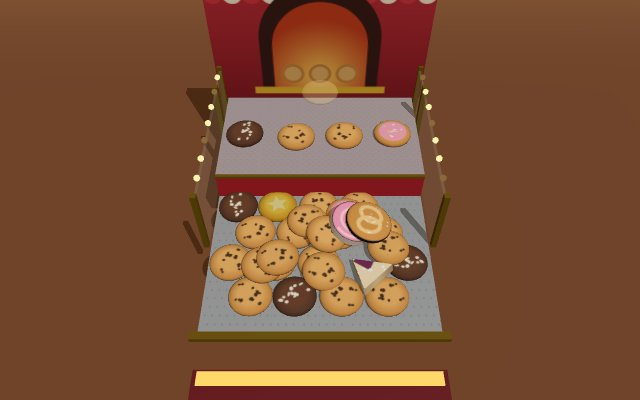
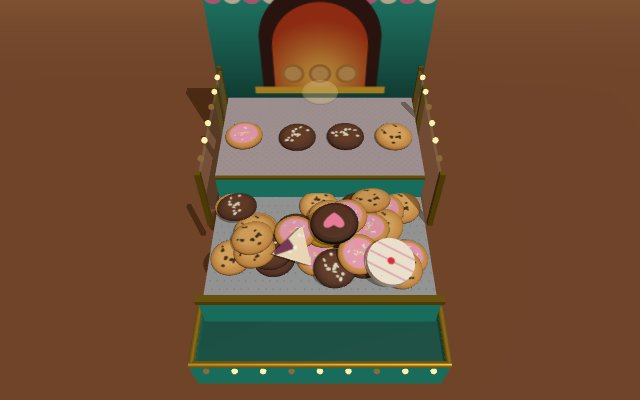
Koekjesschuiver 3D: halloween, mint bakkerij, nieuwe opvangbak, koekjes vallen makkelijker, terugknop sluit winkel; Fladderfeest: dieren roepen tijdens het spel
Claude-Session: https://claude.ai/code/session_016yiCbYbiJxj3wDkRW1beUn

Changed region(s): [[0.2812, 0.42, 0.7188, 1.0], [0.3125, 0.0, 0.6875, 0.27], [0.3125, 0.3, 0.6875, 0.39]]

diff --git a/koekjesschuiver3d/js/spel.js b/koekjesschuiver3d/js/spel.js
@@ -7,8 +7,9 @@ import * as CANNON from 'cannon';
 
 const $ = (id) => document.getElementById(id);
 // smal en lang (zoals een echte kast): de zijkanten zijn vanaf ZIJ_EIND open, daar vallen koekjes weg
-const HB = 2.4, VOOR = 4, ZIJ_EIND = 1.9, KR = 0.45, KH = 0.13;
+const HB = 2.4, VOOR = 3.2, ZIJ_EIND = 1.3, KR = 0.45, KH = 0.13;
 const MUUR_VOOR = -2.3; // voorkant van de vaste achterwand boven de schuif
+const BAK = { y: -1.1, diep: 1.3 }; // opvangbak voor de gewonnen koekjes
 const SCHUIF = { midden: -2.75, slag: 1.2, w: 1.6, half: 2, hoog: 0.7 }; // schuif heen en weer
 const VAL_Z = -1.85, VAL_Y = 1.25; // waar een koekje wordt losgelaten
 
@@ -78,7 +79,7 @@ function pasAan() {
   const boven = ($('balk').getBoundingClientRect().bottom || 60) + 4, onder = h - ($('krachten').getBoundingClientRect().top || h - 70) + 4;
   const ymax = 1 - 2 * boven / h, ymin = -1 + 2 * onder / h, hoek = asp < 1 ? 1.12 : 0.9;
   const pt = [];
-  for (const s of [-1, 1]) pt.push([s * (HB + 0.2), -0.5, VOOR + 0.6], [s * (HB + 0.2), 2.2, MUUR_VOOR]);
+  for (const s of [-1, 1]) pt.push([s * (HB + 0.2), BAK.y + 0.2, VOOR + BAK.diep - 0.1], [s * (HB + 0.2), 2.2, MUUR_VOOR]);
   for (let d = 5; d < 45; d += 0.2) {
     let beste = null;
     for (let tz = -3; tz <= 3; tz += 0.1) {
@@ -163,19 +164,31 @@ const sterren = (g, w, h, n, tot = 0.7) => { const r = rnd(5); for (let i = 0; i
 const verloop = (g, w, h, kl) => { const gr = g.createLinearGradient(0, 0, 0, h); kl.forEach((k, i) => gr.addColorStop(i / (kl.length - 1), k)); g.fillStyle = gr; g.fillRect(0, 0, w, h); };
 const bol = (g, x, y, r, kl) => { g.fillStyle = kl; g.beginPath(); g.arc(x, y, r, 0, 7); g.fill(); };
 const THEMAS = [
-  { id: 'bakkerij', n: 'Bakkerij', prijs: 0, kast: '#b8232f', donker: '#6e141b', vloer: '#7a4a2a', mist: '#c9925e',
+  { id: 'bakkerij', n: 'Bakkerij', prijs: 0, kast: '#25a18e', donker: '#16594f', vloer: '#7a4a2a', mist: '#c9925e',
     lucht(g, w, h) { verloop(g, w, h, ['#f6dcb4', '#e2b483', '#c9925e']);
       const t = Math.max(w, h) / 14; g.strokeStyle = 'rgba(255,255,255,.35)'; g.lineWidth = 2;
       for (let y = h * 0.3; y < h; y += t) { g.beginPath(); g.moveTo(0, y); g.lineTo(w, y); g.stroke(); }
       for (let x = 0; x < w; x += t) { g.beginPath(); g.moveTo(x, h * 0.3); g.lineTo(x, h); g.stroke(); }
       for (const x of [0.2, 0.8]) { g.strokeStyle = '#3a2418'; g.beginPath(); g.moveTo(w * x, 0); g.lineTo(w * x, h * 0.12); g.stroke(); bol(g, w * x, h * 0.15, w * 0.11, 'rgba(255,230,150,.25)'); g.fillStyle = '#2e5a4a'; g.beginPath(); g.arc(w * x, h * 0.15, w * 0.06, Math.PI, 0); g.fill(); bol(g, w * x, h * 0.15, w * 0.02, '#fff2b0'); } },
-    bord(g, w, h) { verloop(g, w, h, ['#c8323c', '#8a1a22']);
-      for (let i = 0; i < 12; i++) { g.fillStyle = i % 2 ? '#fff4dc' : '#d83a44'; g.beginPath(); g.moveTo(i * w / 12, 0); g.lineTo((i + 1) * w / 12, 0); g.lineTo((i + 1) * w / 12, h * 0.16); g.arc((i + 0.5) * w / 12, h * 0.16, w / 24, 0, Math.PI); g.fill(); }
+    bord(g, w, h) { verloop(g, w, h, ['#2fb8a2', '#16594f']);
+      for (let i = 0; i < 12; i++) { g.fillStyle = i % 2 ? '#fff4dc' : '#f27aa8'; g.beginPath(); g.moveTo(i * w / 12, 0); g.lineTo((i + 1) * w / 12, 0); g.lineTo((i + 1) * w / 12, h * 0.16); g.arc((i + 0.5) * w / 12, h * 0.16, w / 24, 0, Math.PI); g.fill(); }
       g.fillStyle = '#3a1a14'; g.beginPath(); g.moveTo(w * 0.22, h * 0.9); g.lineTo(w * 0.22, h * 0.5); g.arc(w / 2, h * 0.5, w * 0.28, Math.PI, 0); g.lineTo(w * 0.78, h * 0.9); g.fill();
       const gl = g.createRadialGradient(w / 2, h * 0.8, 10, w / 2, h * 0.8, w * 0.3); gl.addColorStop(0, '#ffcf5a'); gl.addColorStop(1, '#c8401a'); g.fillStyle = gl;
       g.beginPath(); g.moveTo(w * 0.28, h * 0.9); g.lineTo(w * 0.28, h * 0.55); g.arc(w / 2, h * 0.55, w * 0.22, Math.PI, 0); g.lineTo(w * 0.72, h * 0.9); g.fill();
       for (let i = 0; i < 3; i++) { bol(g, w * (0.37 + i * 0.13), h * 0.78, w * 0.055, '#c98a40'); bol(g, w * (0.37 + i * 0.13), h * 0.78, w * 0.04, '#e8b469'); }
       g.fillStyle = '#e8b830'; g.fillRect(w * 0.18, h * 0.9, w * 0.64, h * 0.06); } },
+  { id: 'halloween', n: 'Halloween', prijs: 40, kast: '#e8731a', donker: '#2a1238', vloer: '#1a0f20', mist: '#2a1238', tafel: '#c4b0e8', lamp: '#ffa53a',
+    lucht(g, w, h) { verloop(g, w, h, ['#0e0618', '#2a1238', '#4a1f3a']); sterren(g, w, h, 50, 0.5);
+      const m = Math.min(w, h); bol(g, w * 0.72, h * 0.18, m * 0.13, '#fff1c0'); bol(g, w * 0.76, h * 0.16, m * 0.03, 'rgba(200,180,120,.5)');
+      g.fillStyle = '#120818'; g.beginPath(); g.moveTo(0, h); for (let x = 0; x <= w; x += 12) g.lineTo(x, h * 0.7 + Math.sin(x / 55) * h * 0.03); g.lineTo(w, h); g.fill();
+      const hx = w * 0.25, hy = h * 0.72; g.fillRect(hx - 40, hy - 60, 80, 60); g.beginPath(); g.moveTo(hx - 50, hy - 60); g.lineTo(hx, hy - 105); g.lineTo(hx + 50, hy - 60); g.fill(); g.fillRect(hx + 22, hy - 120, 10, 40); // spookhuis
+      g.fillStyle = '#ffd24a'; g.fillRect(hx - 25, hy - 45, 12, 12); g.fillRect(hx + 13, hy - 45, 12, 12);
+      const vleermuis = (x, y, s) => { g.fillStyle = '#05020a'; g.beginPath(); g.moveTo(x, y); g.quadraticCurveTo(x - s, y - s * 0.8, x - s * 2, y - s * 0.2); g.quadraticCurveTo(x - s * 1.2, y, x - s, y + s * 0.4); g.quadraticCurveTo(x - s * 0.5, y + s * 0.1, x, y + s * 0.5); g.quadraticCurveTo(x + s * 0.5, y + s * 0.1, x + s, y + s * 0.4); g.quadraticCurveTo(x + s * 1.2, y, x + s * 2, y - s * 0.2); g.quadraticCurveTo(x + s, y - s * 0.8, x, y); g.fill(); };
+      vleermuis(w * 0.66, h * 0.17, 9); vleermuis(w * 0.45, h * 0.1, 7); vleermuis(w * 0.85, h * 0.3, 6);
+      for (const [x, s] of [[0.62, 22], [0.8, 30], [0.92, 18]]) pompoen(g, w * x, h * 0.74 + s, s); },
+    bord(g, w, h) { verloop(g, w, h, ['#3a1650', '#170a22']);
+      g.strokeStyle = 'rgba(255,255,255,.5)'; g.lineWidth = 2; for (const [cx, sx] of [[0, 1], [w, -1]]) { for (let i = 0; i < 6; i++) { const a = i * Math.PI / 10; g.beginPath(); g.moveTo(cx, 0); g.lineTo(cx + sx * Math.cos(a) * 150, Math.sin(a) * 150); g.stroke(); } for (let r = 30; r < 150; r += 30) { g.beginPath(); for (let i = 0; i < 6; i++) { const a = i * Math.PI / 10; g.lineTo(cx + sx * Math.cos(a) * r, Math.sin(a) * r); } g.stroke(); } }
+      pompoen(g, w / 2, h * 0.58, h * 0.3, true); g.fillStyle = '#ff9a2a'; for (let i = 0; i < 14; i++) bol(g, (i + 0.5) * w / 14, h * 0.94, 8, i % 2 ? '#ff9a2a' : '#9a4aff'); } },
   { id: 'kermis', n: 'Kermis', prijs: 60, kast: '#6a2aa0', donker: '#2e1250', vloer: '#2a1440', mist: '#3a1a5a',
     lucht(g, w, h) { verloop(g, w, h, ['#140a30', '#3a1a5a', '#6a2a6a']); sterren(g, w, h, 70);
       const cx = w * 0.78, cy = h * 0.42, r = Math.min(w, h) * 0.3; g.strokeStyle = '#ffd6f0'; g.lineWidth = 3; g.beginPath(); g.arc(cx, cy, r, 0, 7); g.stroke();
@@ -214,9 +227,18 @@ const THEMAS = [
       g.strokeStyle = '#ff5ad8'; g.lineWidth = 3; for (let i = 0; i <= 12; i++) { g.beginPath(); g.moveTo(w / 2, h * 0.62); g.lineTo(i * w / 12, h); g.stroke(); }
       for (let y = h * 0.66; y < h; y += (y - h * 0.6) * 0.5 + 6) { g.beginPath(); g.moveTo(0, y); g.lineTo(w, y); g.stroke(); } sterren(g, w, h, 30, 0.5); } },
 ];
+// een pompoen (met een lachend gezicht dat van binnen gloeit)
+function pompoen(g, x, y, s, groot) {
+  g.fillStyle = '#e8731a'; for (const dx of [-0.45, 0.45, 0]) { g.beginPath(); g.ellipse(x + dx * s, y, s * 0.62, s * 0.8, 0, 0, 7); g.fill(); }
+  g.strokeStyle = 'rgba(120,40,0,.45)'; g.lineWidth = Math.max(1, s * 0.05); for (const dx of [-0.3, 0.3]) { g.beginPath(); g.ellipse(x + dx * s, y, s * 0.35, s * 0.78, 0, 0, 7); g.stroke(); }
+  g.fillStyle = '#3a6a1a'; g.fillRect(x - s * 0.08, y - s * 0.98, s * 0.16, s * 0.25);
+  g.fillStyle = groot ? '#ffd84a' : '#ffb03a';
+  for (const sx of [-1, 1]) { g.beginPath(); g.moveTo(x + sx * s * 0.45, y - s * 0.12); g.lineTo(x + sx * s * 0.2, y - s * 0.12); g.lineTo(x + sx * s * 0.32, y - s * 0.4); g.fill(); }
+  g.beginPath(); g.moveTo(x - s * 0.55, y + s * 0.15); for (let i = 0; i <= 8; i++) g.lineTo(x - s * 0.55 + i * s * 0.1375, y + s * (i % 2 ? 0.28 : 0.4) + Math.sin(i / 8 * Math.PI) * s * 0.12); g.quadraticCurveTo(x, y + s * 0.15, x - s * 0.55, y + s * 0.15); g.fill();
+}
 let thema = THEMAS[0];
 const KM = { kast: new THREE.MeshStandardMaterial({ roughness: 0.5 }), donker: new THREE.MeshStandardMaterial({ roughness: 0.6 }), vloer: new THREE.MeshStandardMaterial({ roughness: 0.9 }),
-  bord: new THREE.MeshStandardMaterial({ roughness: 0.6 }), lampAan: new THREE.MeshBasicMaterial({ color: '#fff3b0' }), lampUit: new THREE.MeshBasicMaterial({ color: '#8a6a3a' }) };
+  bord: new THREE.MeshStandardMaterial({ roughness: 0.6 }), lampAan: new THREE.MeshBasicMaterial({ color: '#fff3b0' }), tafel: new THREE.MeshStandardMaterial({ roughness: 0.45, metalness: 0.5 }), goud: new THREE.MeshStandardMaterial({ color: '#e8b830', roughness: 0.3, metalness: 0.8 }), lampUit: new THREE.MeshBasicMaterial({ color: '#8a6a3a' }) };
 let lampjes = [];
 let luchtTex = null;
 function tekenLucht() {
@@ -227,6 +249,7 @@ function tekenLucht() {
 function zetThema(id) {
   thema = THEMAS.find((x) => x.id == id) || THEMAS[0];
   KM.kast.color.set(thema.kast); KM.donker.color.set(thema.donker); KM.vloer.color.set(thema.vloer);
+  KM.tafel.color.set(thema.tafel || '#ffffff'); KM.lampAan.color.set(thema.lamp || '#fff3b0');
   if (KM.bord.map) KM.bord.map.dispose(); KM.bord.map = canvasTex((g, w, h) => thema.bord(g, w, h), 768, 500); KM.bord.needsUpdate = true;
   scene.fog.color.set(thema.mist); tekenLucht(); sneeuw.visible = !!thema.sneeuw;
 }
@@ -249,9 +272,10 @@ function sneeuwStap(dt) {
 function bouwKast() {
   const metaal = canvasTex((g, w) => { g.fillStyle = '#d6dbe2'; g.fillRect(0, 0, w, w); g.fillStyle = '#b8bec8'; for (let y = 8; y < w; y += 20) for (let x = (y / 20 % 2) * 10 + 8; x < w; x += 20) { g.beginPath(); g.arc(x, y, 2.2, 0, 7); g.fill(); } }, 128, 128);
   metaal.wrapS = metaal.wrapT = THREE.RepeatWrapping; metaal.repeat.set(5, 8);
-  const tafel = new THREE.Mesh(new THREE.BoxGeometry(HB * 2, 0.2, 10), new THREE.MeshStandardMaterial({ map: metaal, roughness: 0.45, metalness: 0.5 }));
+  KM.tafel.map = metaal;
+  const tafel = new THREE.Mesh(new THREE.BoxGeometry(HB * 2, 0.2, 10), KM.tafel);
   tafel.position.set(0, -0.1, VOOR - 5); tafel.receiveShadow = true; scene.add(tafel);
-  const goud = new THREE.MeshStandardMaterial({ color: '#e8b830', roughness: 0.3, metalness: 0.8 });
+  const goud = KM.goud;
   const rand = new THREE.Mesh(new THREE.BoxGeometry(HB * 2 + 0.3, 0.12, 0.16), goud); rand.position.set(0, 0.0, VOOR + 0.06); scene.add(rand);
   // de schuif: rood met een gouden bies
   const schuif = new THREE.Group();
@@ -276,10 +300,16 @@ function bouwKast() {
     for (const z of [ZIJ_EIND, -1.5, MUUR_VOOR]) { const p = new THREE.Mesh(new THREE.BoxGeometry(0.12, 1.7, 0.12), goud); p.position.set(s * (HB + 0.1), 0.85, z); p.castShadow = true; scene.add(p); }
   }
   // opvangbak onder de voorrand
-  const bak = new THREE.Mesh(new THREE.BoxGeometry(HB * 2 + 0.6, 0.6, 1.4), KM.donker);
-  bak.position.set(0, -1.6, VOOR + 0.9); scene.add(bak);
-  const licht = new THREE.Mesh(new THREE.BoxGeometry(HB * 2 + 0.4, 0.05, 0.3), new THREE.MeshBasicMaterial({ color: '#ffd86a' }));
-  licht.position.set(0, -1.28, VOOR + 0.4); scene.add(licht);
+  // een ondiepe bak met afgeronde gouden rand; gewonnen koekjes vallen erin en blijven even liggen
+  const bakB = HB * 2 + 0.5, bakZ = VOOR + BAK.diep / 2 - 0.25;
+  const bodem = new THREE.Mesh(new THREE.BoxGeometry(bakB, 0.1, BAK.diep), KM.donker); bodem.position.set(0, BAK.y - 0.05, bakZ); bodem.receiveShadow = true; scene.add(bodem);
+  const voorkantBak = new THREE.Mesh(new THREE.BoxGeometry(bakB, 0.9, 0.12), KM.kast); voorkantBak.position.set(0, BAK.y - 0.25, bakZ + BAK.diep / 2); scene.add(voorkantBak);
+  for (const s of [-1, 1]) { const z = new THREE.Mesh(new THREE.BoxGeometry(0.12, 0.7, BAK.diep), KM.kast); z.position.set(s * bakB / 2, BAK.y - 0.15, bakZ); scene.add(z); }
+  const randGeo = new THREE.CylinderGeometry(0.07, 0.07, bakB + 0.1, 12); randGeo.rotateZ(Math.PI / 2);
+  const bakRand = new THREE.Mesh(randGeo, goud); bakRand.position.set(0, BAK.y + 0.2, bakZ + BAK.diep / 2); scene.add(bakRand);
+  for (const s of [-1, 1]) { const g2 = new THREE.CylinderGeometry(0.07, 0.07, BAK.diep, 12); g2.rotateX(Math.PI / 2); const r2 = new THREE.Mesh(g2, goud); r2.position.set(s * bakB / 2, BAK.y + 0.2, bakZ); scene.add(r2); }
+  const schort = new THREE.Mesh(new THREE.BoxGeometry(HB * 2 + 0.3, BAK.y * -1, 0.1), KM.kast); schort.position.set(0, BAK.y / 2 - 0.1, VOOR - 0.06); scene.add(schort); // voorkant onder de tafel
+  for (let i = 0; i < 9; i++) { const m = new THREE.Mesh(new THREE.SphereGeometry(0.07, 10, 8), KM.lampAan); m.position.set(-bakB / 2 + 0.3 + i * (bakB - 0.6) / 8, BAK.y + 0.06, bakZ + BAK.diep / 2 + 0.08); m.userData.i = i; scene.add(m); lampjes.push(m); }
   // tegelvloer en wat gezelligheid in de verte
   const vloer = new THREE.Mesh(new THREE.PlaneGeometry(60, 60), KM.vloer);
   vloer.rotation.x = -Math.PI / 2; vloer.position.y = -2; vloer.receiveShadow = true; scene.add(vloer);
@@ -306,6 +336,7 @@ vast(HB, 0.1, 5, 0, -0.1, VOOR - 5); // tafel
 vast(HB + 0.2, 1.7, 0.15, 0, SCHUIF.hoog + 0.02 + 1.7, MUUR_VOOR - 0.15); // achterwand boven de schuif
 for (const s of [-1, 1]) vast(0.1, 2, (ZIJ_EIND + 7) / 2, s * (HB + 0.1), 1.5, (ZIJ_EIND - 7) / 2); // zijwanden
 const muurtjes = [-1, 1].map((s) => { const b = vast(0.1, 0.5, (VOOR - ZIJ_EIND) / 2, s * (HB + 0.1), 0.5, (VOOR + ZIJ_EIND) / 2); world.removeBody(b); return b; });
+vast(HB + 0.25, 0.05, BAK.diep / 2, 0, BAK.y - 0.05, VOOR + BAK.diep / 2 - 0.25); vast(HB + 0.25, 0.4, 0.06, 0, BAK.y + 0.3, VOOR + BAK.diep - 0.25); // opvangbak
 const schuifBody = vast(HB, SCHUIF.hoog / 2, SCHUIF.half, 0, SCHUIF.hoog / 2, SCHUIF.midden, CANNON.Body.KINEMATIC);
 
 // ---------- koekjes ----------
@@ -336,11 +367,11 @@ function schuifZ(tt) { return SCHUIF.midden + SCHUIF.slag * Math.sin(tt * SCHUIF
 function vulTafel() { // minder, grotere koekjes dan in 2D; een paar al op elkaar gestapeld
   const dx = KR * 2 + 0.04, dz = dx * 0.87;
   let rij = 0;
-  for (let z = 0.75; z < VOOR - KR; z += dz, rij++) for (let x = -HB + KR + 0.05 + (rij % 2) * dx / 2; x < HB - KR; x += dx) {
-    if (Math.random() < 0.12) continue;
+  for (let z = 0.6; z < VOOR - KR * 0.6; z += dz, rij++) for (let x = -HB + KR + 0.05 + (rij % 2) * dx / 2; x < HB - KR; x += dx) {
+    if (Math.random() < 0.04) continue;
     nieuwKoekje(Math.random() < 0.03 ? 3 : [0, 0, 0, 1, 2][Math.floor(Math.random() * 5)], x + (Math.random() - 0.5) * 0.05, KH / 2 + 0.01, z);
   }
-  for (let i = 0; i < 7; i++) nieuwKoekje(randCookie(), (Math.random() - 0.5) * (HB * 2 - 0.9), KH * 1.6 + 0.05, 1 + Math.random() * (VOOR - 1.8));
+  for (let i = 0; i < 16; i++) nieuwKoekje(randCookie(), (Math.random() - 0.5) * (HB * 2 - 0.9), KH * 1.6 + 0.05 + (i % 2) * KH, 0.8 + Math.random() * (VOOR - 1.2));
   for (let i = 0; i < 2; i++) nieuwKoekje(10 + Math.floor(Math.random() * 5), (Math.random() - 0.5) * (HB * 2 - 1.4), 0.6, 1.2 + Math.random() * 1.6);
   nieuwKoekje(20 + Math.floor(Math.random() * 8), (Math.random() - 0.5) * 2.4, 0.7, 1.6);
   for (let i = 0; i < 4; i++) nieuwKoekje(randCookie(), -HB + 0.6 + i * (HB * 2 - 1.2) / 3, SCHUIF.hoog + KH / 2 + 0.02, -2.0);
@@ -441,7 +472,7 @@ function roep(tekst) { const el = document.createElement('div'); el.className = 
 let hudSleutel = '';
 function tekenHud(forceer) {
   $('voorraad').textContent = supply; $('punten').textContent = score;
-  $('badgetal').textContent = badges.length + '/' + BADGES.length; $('munten').textContent = munten;
+  $('badgetal').textContent = badges.length + '/' + BADGES.length; $('munten').textContent = munten + ' 🪙';
   const s = coll.join(',');
   if (!forceer && s == hudSleutel) return; hudSleutel = s;
   $('krachten').innerHTML = TREATS.map((tr, i) => `<button data-k="${i}" class="${coll[i] >= 3 ? 'klaar' : ''}" title="${tr.d}">${tr.p}<i>${'●'.repeat(Math.min(3, coll[i]))}${'○'.repeat(Math.max(0, 3 - coll[i]))}</i><small>${tr.n}</small></button>`).join('');
@@ -481,6 +512,8 @@ function tekenWinkel() {
 }
 $('muntknop').onclick = () => { unlock(); tekenWinkel(); $('winkel').hidden = false; };
 $('winkeldicht').onclick = () => { $('winkel').hidden = true; };
+// de terugknop sluit eerst een open scherm (winkel, badges, scorebord); pas daarna terug naar alle spellen
+document.querySelector('.terug').addEventListener('click', (e) => { const open = [...document.querySelectorAll('.scherm')].filter((x) => !x.hidden); if (open.length) { e.preventDefault(); open.forEach((x) => (x.hidden = true)); } });
 
 // ---------- online scorebord (zelfde Google Spreadsheet als Fladderfeest, zie extra/scorebord.gs) ----------
 // koek3d_punten = beste tafel, koek3d_munten = alle munten ooit verdiend. Gaat vanzelf: alleen met een gekozen naam
@@ -552,8 +585,8 @@ function stap(dt) {
   if (rainQ > 0 && (regenT += dt) > 0.09) { regenT = 0; rainQ--; laatVallen((Math.random() - 0.5) * (HB * 2 - 1.2), true); }
   for (const k of [...koekjes]) {
     const p = k.body.position;
-    if (!k.geteld && p.y < -0.5) { k.geteld = true; if (p.z > VOOR - 0.3 && Math.abs(p.x) < HB + 0.1) gewonnen(k); else verloren(k); }
-    if (p.y < -4) weg(k);
+    if (!k.geteld && p.y < -0.5) { k.geteld = t; if (p.z > VOOR - 0.3 && Math.abs(p.x) < HB + 0.1) gewonnen(k); else verloren(k); }
+    if (p.y < -4 || (k.geteld && t - k.geteld > 2.5)) weg(k); // na een tijdje uit de bak gehaald
   }
   // koekjes die stil op hun kant staan, krijgen een zetje zodat ze weer plat vallen
   if ((omvalT += dt) > 0.4) {

diff --git a/fladderfeest.html b/fladderfeest.html
@@ -139,6 +139,16 @@ const sPfoef = () => { ruis(0.22, 0.09, 'lowpass', 700); snd(160, 0.15, 'sawtoot
 const sKraak = () => { ruis(0.5, 0.2, 'lowpass', 180); snd(950, 0.2, 'sawtooth', 0.05, 620, 0.25); snd(1000, 0.3, 'sawtooth', 0.05, 560, 0.5); }; // kanonschot en "kraak!"
 const sSputter = () => { for (let i = 0; i < 5; i++) ruis(0.08, 0.08, 'lowpass', 900 - i * 120, i * 0.14); snd(300, 0.8, 'sawtooth', 0.04, 60, 0.1); };
 const sClick = () => snd(660, 0.05, 'square', 0.03);
+// tijdens het spelen roept elk dier af en toe iets (vrolijk geluidje plus een tekstwolkje)
+const ROEP = {
+  roodborst: { s: () => [0, 0.09, 0.18, 0.3].forEach((d, i) => snd(2600 + (i % 2) * 500, 0.07, 'sine', 0.035, 3200, d)), t: ['Tjiep!', 'Tjiep tjiep!', 'Fijne winter!', 'Besjes!'] },
+  meeuw: { s: () => { snd(1300, 0.22, 'sawtooth', 0.03, 800); snd(1250, 0.25, 'sawtooth', 0.025, 700, 0.25); }, t: ['Kriiijs!', 'Patat!', 'Mayo erbij?', 'Mijn strand!'] },
+  hommel: { s: () => { snd(150, 0.5, 'sawtooth', 0.03, 190); snd(152, 0.5, 'square', 0.012, 195); }, t: ['Bzzz!', 'Zoem zoem!', 'Hmmm, nectar!', 'Brom!'] },
+  kip: { s: () => { snd(700, 0.06, 'square', 0.035, 560); snd(700, 0.06, 'square', 0.035, 560, 0.16); snd(950, 0.18, 'sawtooth', 0.03, 600, 0.32); }, t: ['Tok tok!', 'Tok tok tokkéé!', 'Kijk mij vliegen!', 'Wie wil een ei?'] },
+  kraai: { s: () => { snd(720, 0.18, 'sawtooth', 0.035, 430); snd(680, 0.22, 'sawtooth', 0.035, 400, 0.22); }, t: ['Kraa!', 'Rock on!', 'Kraa kraa!', 'Harder!'] },
+  papegaai: { s: () => { snd(1000, 0.18, 'sawtooth', 0.035, 620); snd(1100, 0.25, 'sawtooth', 0.03, 560, 0.2); }, t: ['Kraa!', 'Polly wil goud!', 'Arrr!', 'Kraa! Land in zicht!', 'Hoera, ik vlieg!'] },
+  pinguin: { s: () => { snd(900, 0.12, 'square', 0.03, 1400); snd(1200, 0.2, 'square', 0.025, 1800, 0.13); }, t: ['Wiieee!', 'Raket aan!', 'Koud hè?', 'Visje?'] },
+};
 const sMedaille = () => [660, 880, 1046, 1318].forEach((f, i) => snd(f, 0.2, 'triangle', 0.06, 0, i * 0.09));
 
 // ---------- muziek (zelf gecomponeerd, de browser speelt het; knopje rechtsboven of toets M) ----------
@@ -367,6 +377,7 @@ const medaille = (n, f = fig) => { const m = MEDAILLES.find(([g]) => n >= g); re
 // ---------- spelstatus ----------
 let staat = 'menu'; // menu, klaar (wacht op eerste tik), spel, dood, over
 let fig = FIGUREN[0];
+let roepT = 0, roepBel = null; // geluidje en tekstwolkje van het dier zelf
 let vogel, palen, score, frietjes, snelheid, afstand, beeld = 0, schuif = 0, doodT = 0, tekstje = '', nieuwRecord = false, vallend = null;
 const knoppen = []; // klikbare vlakken in het huidige scherm
 
@@ -389,7 +400,7 @@ function nieuwSpel() {
   vogel = { x: W * 0.28, y: H * 0.42, vy: 0, flapT: 0, hoek: 0 };
   palen = []; score = 0; frietjes = 0; snelheid = 2.3; afstand = 215; nieuwRecord = false; vallend = null;
   wind = null; volgendeWind = 60 * 8;
-  gevaren = []; bui = null; volgendeStreek = 60 * 4; brandstof = 100;
+  gevaren = []; bui = null; volgendeStreek = 60 * 4; brandstof = 100; roepT = 60 * (5 + Math.random() * 4); roepBel = null;
   staat = 'klaar'; zorgMuziek();
 }
 
@@ -482,6 +493,8 @@ function stap() {
     vogel.y += vogel.vy;
     if (vogel.flapT > 0) vogel.flapT--;
     if (vogel.stuw > 0) { vogel.vy -= fig.stuwKracht; vogel.stuw--; }
+    if (--roepT <= 0) { roepT = 60 * (8 + Math.random() * 8); const r = ROEP[fig.id]; if (r) { r.s(); roepBel = { tekst: r.t[Math.floor(Math.random() * r.t.length)], t: 80 }; } }
+    if (roepBel && --roepBel.t <= 0) roepBel = null;
     if (vogel.y < 10) { vogel.y = 10; vogel.vy = Math.max(0, vogel.vy); }
     for (const p of palen) {
       p.x -= snelheid;
@@ -1581,6 +1594,11 @@ function teken() {
   const zweef = staat == 'klaar' ? Math.sin(beeld * 0.08) * 8 : 0;
   let hoek = staat == 'klaar' ? 0 : Math.max(-0.45, Math.min(1.3, vogel.vy * 0.09));
   if (fig.id == 'hommel') hoek = staat == 'dood' ? doodT * 0.28 : staat == 'over' ? 0 : hoek * 0.6; // tolt naar beneden
+  if (roepBel && staat == 'spel') { // tekstwolkje boven het dier
+    ctx.globalAlpha = Math.min(1, roepBel.t / 15); ctx.font = 'bold 13px system-ui,sans-serif'; const bw = ctx.measureText(roepBel.tekst).width + 16, bx = Math.min(W - bw - 6, vogel.x - 10), by = vogel.y - 50;
+    ctx.fillStyle = '#fff'; rrect(bx, by, bw, 24, 10); ctx.fill(); ctx.beginPath(); ctx.moveTo(vogel.x, by + 22); ctx.lineTo(vogel.x + 4, by + 31); ctx.lineTo(vogel.x + 11, by + 22); ctx.fill();
+    tekst(roepBel.tekst, bx + bw / 2, by + 13, 13, '#1d3b57', 'center', null); ctx.globalAlpha = 1;
+  }
   if (!(onkw > 0 && beeld % 8 < 4)) wd.held(vogel.x, vogel.y + zweef, hoek, staat == 'klaar' ? (beeld % 30 < 12 ? 12 - beeld % 30 : 0) : vogel.flapT, 1, staat == 'dood' || staat == 'over');
   if (staat == 'klaar' && tocht) {
     tekst('Grote tocht · dier ' + (tocht.i + 1) + ' van ' + FIGUREN.length, W / 2, 104, 16, '#fff');
@@ -1640,7 +1658,7 @@ document.querySelector('.terug').addEventListener('click', (e) => {
 });
 if (TEGEL) { document.querySelector('.terug').hidden = true; tegelPlaatje(); }
 else { nieuwSpel(); staat = 'menu'; requestAnimationFrame(lus); }
-window.__test = { get gevaren() { return gevaren; }, get bui() { return bui; }, get brandstof() { return brandstof; }, get tocht() { return tocht; }, get finish() { return finish; }, startTocht, get wind() { return wind; }, get muziek() { return { aan: muziekAan, speelt: mSpeelt, stap: mStap }; }, get staat() { return staat; }, get score() { return score; }, get vogel() { return vogel; }, get palen() { return palen; }, flap, stap, nieuwSpel };
+window.__test = { get roepBel() { return roepBel; }, get gevaren() { return gevaren; }, get bui() { return bui; }, get brandstof() { return brandstof; }, get tocht() { return tocht; }, get finish() { return finish; }, startTocht, get wind() { return wind; }, get muziek() { return { aan: muziekAan, speelt: mSpeelt, stap: mStap }; }, get staat() { return staat; }, get score() { return score; }, get vogel() { return vogel; }, get palen() { return palen; }, flap, stap, nieuwSpel };
 </script>
 </body>
 </html>

diff --git a/koekjesschuiver3d/index.html b/koekjesschuiver3d/index.html
@@ -71,8 +71,8 @@ button{font:inherit;color:inherit;cursor:pointer}
 <div id="balk">
   <div class="tel"><b id="voorraad">40</b><small>koekjes</small></div>
   <div class="tel"><b id="punten">0</b><small>punten</small></div>
-  <button id="muntknop" title="Winkel"><b id="munten">0</b>🪙 winkel</button>
-  <button id="badgeknop" title="Badges"><b id="badgetal">0/15</b>🏅 badges</button>
+  <button id="muntknop" title="Winkel: hier geef je je munten uit"><b id="munten">0 🪙</b>winkel</button>
+  <button id="badgeknop" title="Badges"><b id="badgetal">0/15</b>badges</button>
 </div>
 <div id="krachten"></div>
 <div id="tip">Klik of tik boven de schuif om een koekje te laten vallen · spatie = laten vallen</div>

diff --git a/CLAUDE.md b/CLAUDE.md
@@ -36,7 +36,8 @@ bedenk dat de site openbaar is.
   hoorbaar), papegaai ook een magneetpiraat op de tonnen die het goudstuk wegtrekt (`p.piraat`, `magneet`, `piraat`; duikt
   in de ton als je over hem heen vliegt), hommel windvlagen (alleen met streken), kip schuivende hooibalen en kraai dansende versterkers (`p.amp`),
   pinguïn brandstof (`brandstof`, flap kost 7, visjes +40, meter links). Moeilijkheid: gat en snelheid tot ~40 punten (`gat`,
-  `tempo`), na 50 punten nog heel langzaam wat krapper en sneller.
+  `tempo`), na 50 punten nog heel langzaam wat krapper en sneller. Elk dier roept tijdens het spelen om de 8-16 seconden
+  iets met een geluidje en een tekstwolkje (`ROEP`, `roepT`, `roepBel`).
   Online scorebord: Google Spreadsheet van Marcel met het Apps Script uit `extra/scorebord.gs` (web-app, voor alle spellen;
   `BORD_URL`). GET zonder parameters = top 10 per onderdeel en modus (JSON), `?actie=opslaan&naam&onderdeel&modus&score`
   = insturen. Knop 🏆 Scorebord op het beginscherm (`scorebordScherm`), insturen gaat automatisch op het eindscherm (`autoInsturen`: alleen met een gekozen naam en alleen een persoonlijk record dat beter is dan wat al ingestuurd is, bijgehouden in `fladderfeest_ingestuurd:<naam>`); laatste lijst
@@ -87,8 +88,10 @@ springen omhoog (`springers`), het likkoekje extra groot met "Likkie-likkie!" ha
 de dichtstbijzijnde stand waarbij de tafel tussen bovenbalk en krachtknoppen past (`pasAan`). Gewone koekjes en figuren
 hebben een bolle, aflopende rand (`bolKoek`, alleen het beeld; de natuurkunde blijft een cilinder). Opslag per speler
 (`koekjesschuiver3d:<naam>`). Munten (🪙): gouden koekje en gebakje 1, figuur 3, badge 10, dubbele figuren ruilen 5
-(knop bij de badges). Winkel (`#winkel`): achtergronden in `THEMAS` (bakkerij gratis, kermis, strand, winternacht met
-sneeuw, ruimte), elk met lucht, kastkleuren en een plaatje op de achterwand (`zetThema`). "Nieuwe tafel" wist alleen
+(knop bij de badges). Winkel (`#winkel`): achtergronden in `THEMAS` (bakkerij gratis, mint met roze; halloween, kermis, strand,
+winternacht met sneeuw, ruimte), elk met lucht, kastkleuren, tafeltint (`tafel`), lampjes (`lamp`) en een plaatje op de
+achterwand (`zetThema`). Gewonnen koekjes vallen in een opvangbak (`BAK`, met natuurkunde) en verdwijnen na 2,5 s.
+De terugknop sluit eerst een open scherm. "Nieuwe tafel" wist alleen
 tafel, punten en gebakjes. Online scorebord (zelfde Apps Script, geen aanpassing nodig: de lijst zonder `spel` bevat
 alles behalve ork3d): `koek3d_punten` (beste tafel) en `koek3d_munten` (alle munten ooit, `muntenTotaal`), modus `gewoon`.
 Insturen gaat vanzelf (`autoInsturen`: met naam, alleen verbeteringen, hooguit eens per minuut en bij weggaan);
